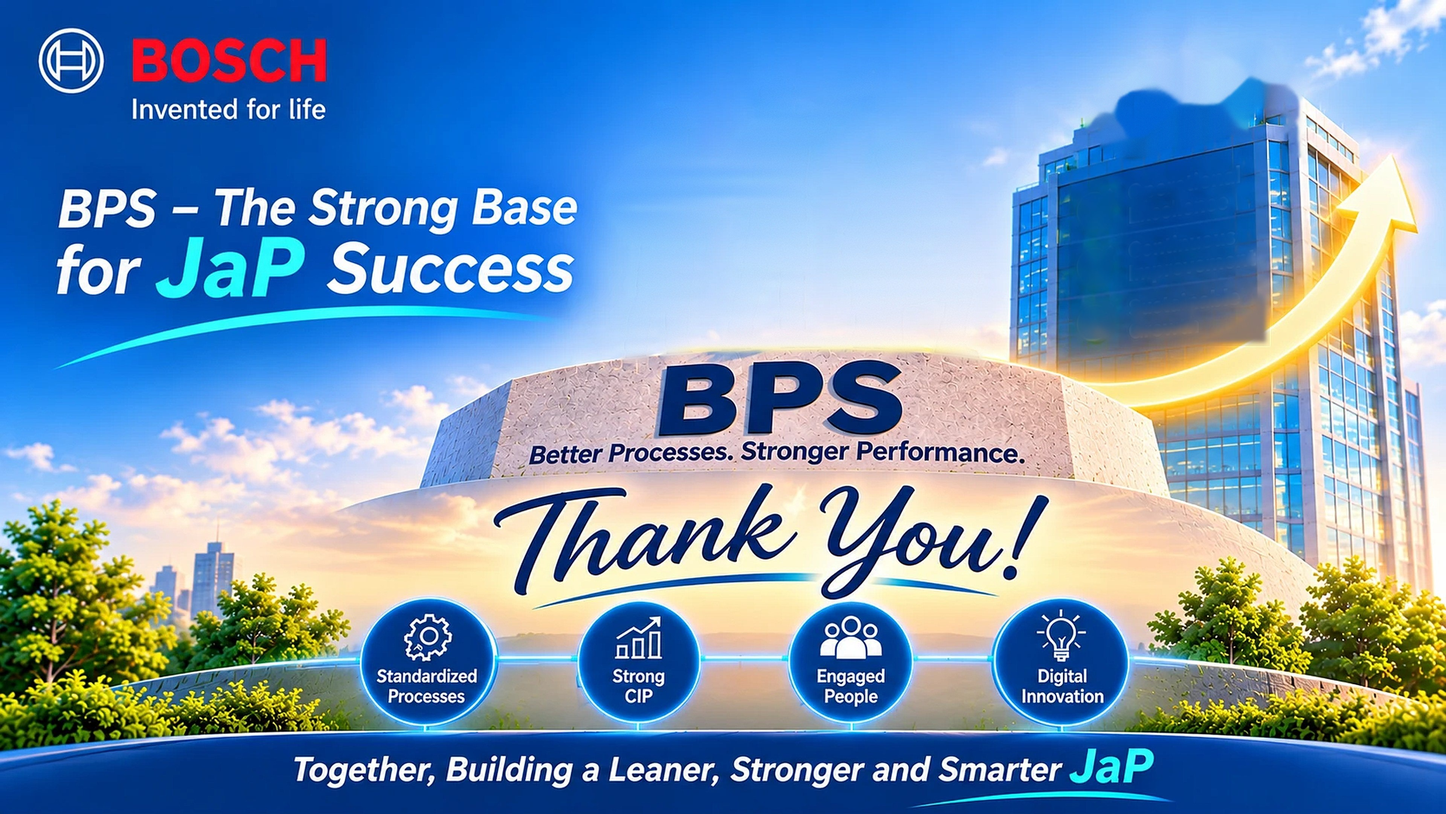
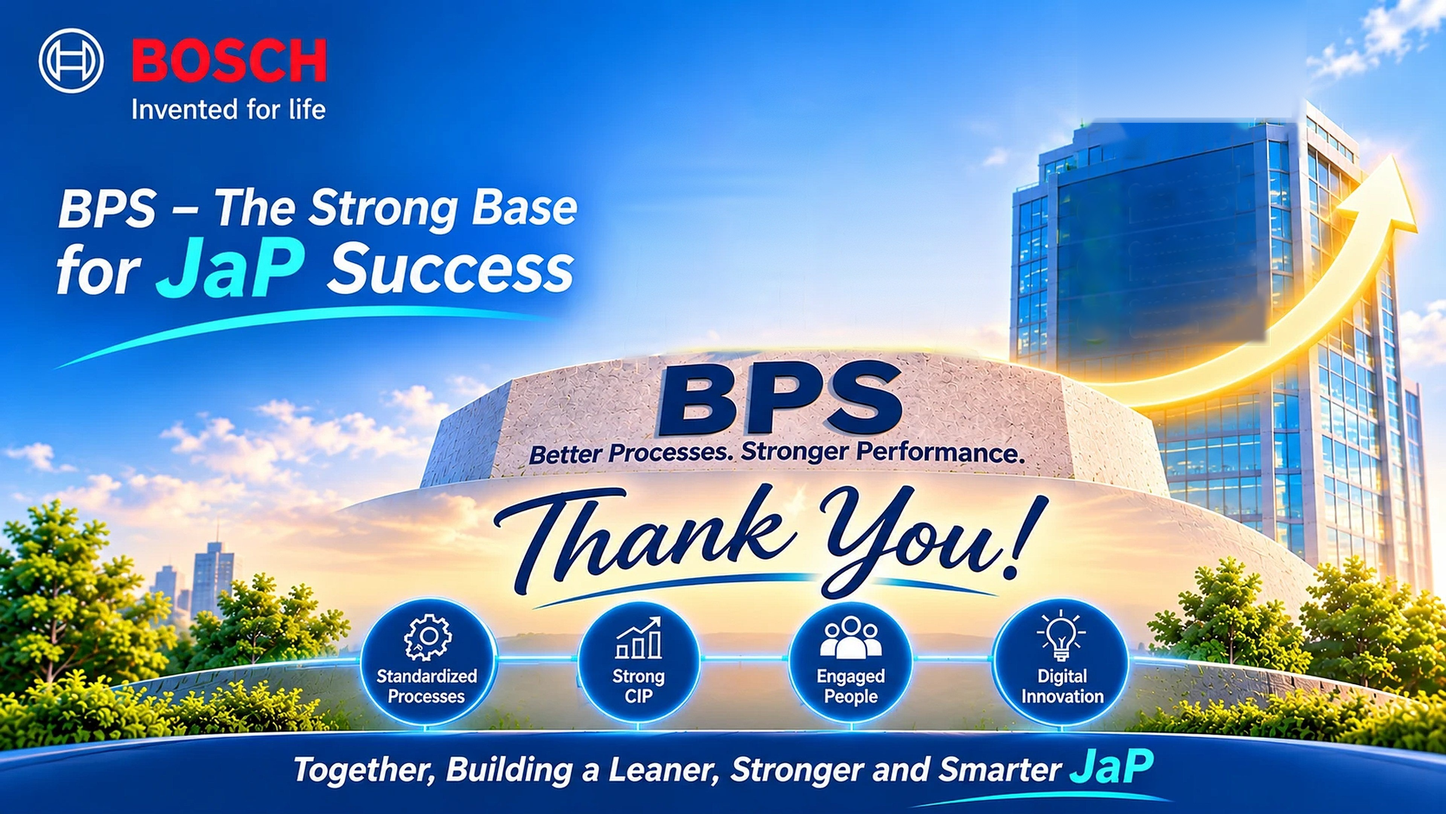
Thank you: trophy lands on the building roof, JaP on the glass above the arrow
Claude-Session: https://claude.ai/code/session_01SMNtWjoyGC9g32mxm4KRHc

Changed region(s): [[0.75, 0.0, 0.9062, 0.155]]

diff --git a/ui.js b/ui.js
@@ -586,7 +586,7 @@ export class UI {
       stage.append(h('i', { class: 'ty-glow', 'aria-hidden': 'true' }));
       (T.layout.people || []).forEach((r, i) => { const p = h('img', { class: 'ty-p', src: T.img['p' + (i + 1)], alt: '' }); place(p, r); stage.append(p); });
       (T.layout.checks || []).forEach((r, i) => { const c = h('img', { class: 'ty-c', src: T.img['c' + (i + 1)], alt: '' }); place(c, r); stage.append(c); });
-      if (T.img.jap && T.layout.jap) { const j = h('img', { class: 'ty-jap', src: T.img.jap, alt: 'JaP' }); place(j, T.layout.jap); stage.append(j); }
+      if (T.layout.jap) { const j = h('div', { class: 'ty-jap', 'aria-label': 'JaP' }, h('span', {}, 'JaP')); place(j, T.layout.jap); stage.append(j); }
       stage.append(h('div', { class: 'ty-trophy', 'aria-hidden': 'true' }, h('i', { class: 'ty-rays' }), h('div', { class: 'ty-cup', html: TROPHY_SVG })));
     }
     const people = [...stage.querySelectorAll('.ty-p')], checks = [...stage.querySelectorAll('.ty-c')];
@@ -614,7 +614,7 @@ export class UI {
       [...people, ...checks].forEach(stop); el.classList.remove('look');
       const fin = action === 'final';
       people.forEach(p => p.style.opacity = fin ? 1 : 0); checks.forEach(c => c.style.opacity = 0);
-      if (jap) { stop(jap); jap.style.opacity = fin ? 1 : 0; } if (trophy) { trophy.classList.toggle('in', fin); trophy.classList.toggle('done', fin); trophy.classList.toggle('parked', fin); }
+      if (jap) { stop(jap); jap.style.opacity = fin ? 1 : 0; } if (trophy) { trophy.classList.toggle('in', fin); trophy.classList.toggle('done', fin);  }
       if (fin) el.classList.add('look');
       void el.offsetWidth; el.classList.add('on'); return;
     }
@@ -652,8 +652,7 @@ export class UI {
     }
     if (action === 'trophy') {
       if (!trophy) return; trophy.classList.remove('in', 'done', 'parked'); void trophy.offsetWidth; trophy.classList.add('in');
-      setTimeout(() => { dust(50, 86, 26); this.crackers(stage, [[30, 10, 40, 60]], 3600); trophy.classList.add('done'); }, 900);
-      setTimeout(() => { if (trophy.classList.contains('done')) trophy.classList.add('parked'); }, 3400); // then moves aside so the three stay in view
+      setTimeout(() => { dust(80.6, 16.2, 9); this.crackers(stage, [[72, 0, 18, 22]], 3600); trophy.classList.add('done'); }, 900); // lands on the roof of the building
       return;
     }
     if (action === 'look') { el.classList.add('look'); return; }

diff --git a/style.css b/style.css
@@ -1125,3 +1125,15 @@ body.factcheck #rail .arrow { visibility: visible; }
 @keyframes tyRays { to { transform: translate(-50%,-50%) rotate(360deg); } }
 .ty-trophy { transition: left 1.3s cubic-bezier(.4,0,.2,1), top 1.3s cubic-bezier(.4,0,.2,1), width 1.3s cubic-bezier(.4,0,.2,1); }
 .ty-trophy.parked { left: 16.5%; top: 37%; width: 14.5%; }
+/* the trophy lands on the roof of the JaP building */
+.ty-trophy { left: 80.6%; top: -2.2%; width: 7.4%; transition: none; }
+@keyframes tyTrophy { 0% { transform: translate(-50%, -140%) scale(.85); opacity: 0; } 20% { opacity: 1; } 85% { transform: translate(-50%, 3%) scale(1.05, .94); } 100% { transform: translate(-50%, 0); opacity: 1; } }
+.ty-rays { width: 330%; }
+/* JaP: clean 3D letters on the building glass */
+.ty-stage { container-type: inline-size; }
+.ty-jap { display: grid; place-items: center; filter: none; }
+.ty-jap span { font: 900 7.6cqw/1 "Arial Black", Arial, Helvetica, sans-serif; letter-spacing: -.02em; color: #fff;
+  background: linear-gradient(180deg, #ffffff 0%, #eef3f8 45%, #c9d4df 100%); -webkit-background-clip: text; background-clip: text; -webkit-text-fill-color: transparent;
+  filter: drop-shadow(.12cqw .12cqw 0 #9fb0c2) drop-shadow(.12cqw .12cqw 0 #8597ab) drop-shadow(.12cqw .12cqw 0 #6d8197) drop-shadow(0 .5cqw .6cqw rgba(0,25,70,.5)); }
+#thanks.look .ty-jap span { animation: tyJapShine 2.4s ease-in-out 1; }
+@keyframes tyJapShine { 50% { filter: drop-shadow(.12cqw .12cqw 0 #9fb0c2) drop-shadow(.12cqw .12cqw 0 #8597ab) drop-shadow(.12cqw .12cqw 0 #6d8197) drop-shadow(0 0 1.6cqw rgba(255,240,180,.95)); } }
